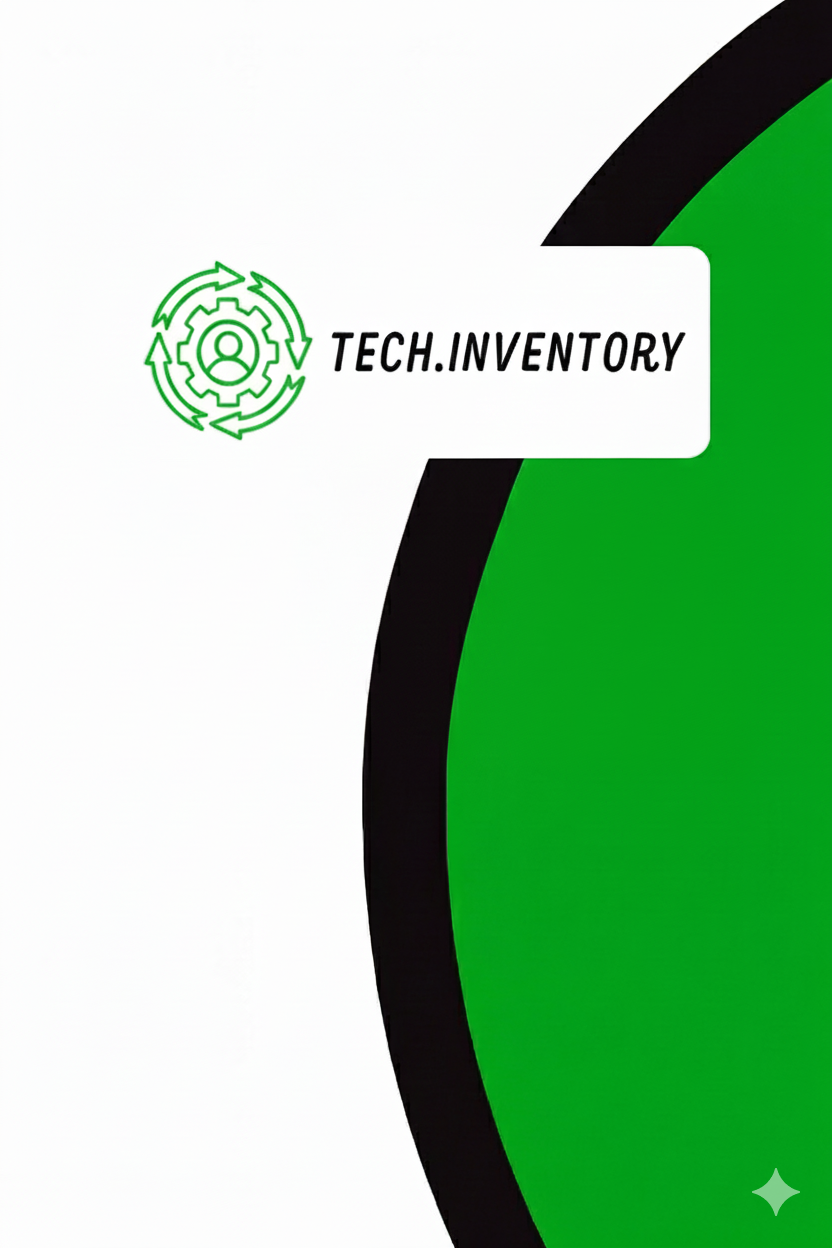
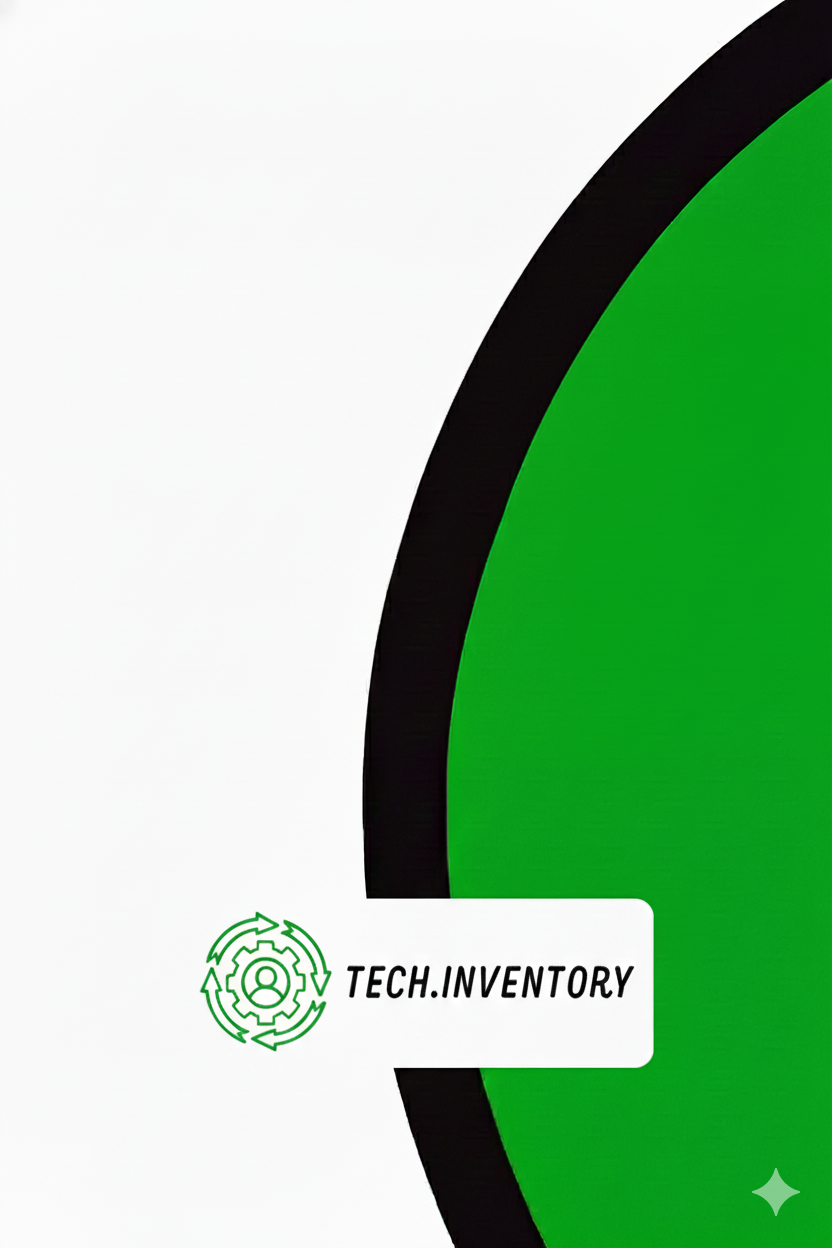
mejor el login

diff --git a/src/styles/LoginStyles.ts b/src/styles/LoginStyles.ts
@@ -3,9 +3,8 @@ import { StyleSheet } from 'react-native';
 export const LoginStyles = StyleSheet.create({
   container: {
     flex: 1,
-    justifyContent: 'flex-end',
+    justifyContent: 'center',
     padding: 20,
-    paddingBottom: 130,
   },
   formBox: {
     backgroundColor: 'rgba(255,255,255,0.80)',
